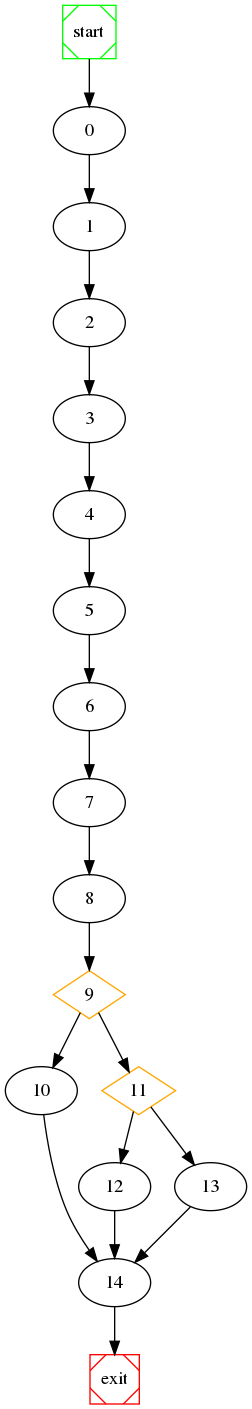
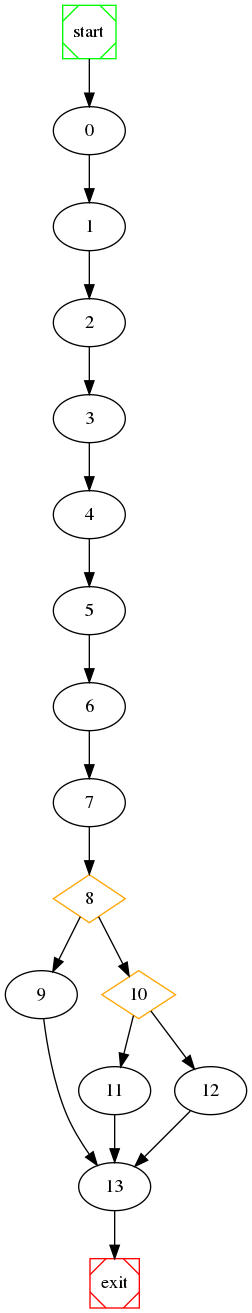
making branches even

Changed region(s): [[0.0, 0.0, 1.0, 0.9992], [0.1944, 0.1561, 0.2778, 0.1874]]

diff --git a/wpc/Z3RuntimeWpcFile.py b/wpc/Z3RuntimeWpcFile.py
@@ -1,4 +1,4 @@
-# This file was generated at runtime on 2019-03-09 19:59:27.403494
+# This file was generated at runtime on 2019-04-01 21:19:35.773198
 from z3 import *
 
 class Z3RuntimeWpcFile():
@@ -8,34 +8,16 @@ class Z3RuntimeWpcFile():
 		self.modelForViolation = ""
 
 	def execute(self):
-		LAST_NAME = Real('LAST_NAME')
-		ROOM_ID = Real('ROOM_ID')
-		BEGINNING = Real('BEGINNING')
-		DATE_OF_RESERVATION = Real('DATE_OF_RESERVATION')
-		COMPLETED = Real('COMPLETED')
-		N_O_VISITS = Real('N_O_VISITS')
-		PESEL_C = Real('PESEL_C')
-		RESERVATION_ID_R = Real('RESERVATION_ID_R')
-		SUM_PRICE_PER_DAY = Real('SUM_PRICE_PER_DAY')
-		ENDING = Real('ENDING')
-		PRICE_PER_DAY = Real('PRICE_PER_DAY')
-		CAPACITY = Real('CAPACITY')
-		FIRST_NAME = Real('FIRST_NAME')
-		TO_PAY = Real('TO_PAY')
-		TELEPHONE = Real('TELEPHONE')
-		FINAL_COST = Real('FINAL_COST')
-		P_RESERVATION_ID = Real('P_RESERVATION_ID')
-		ROOM_ID_R = Real('ROOM_ID_R')
-		DISCOUNT = Real('DISCOUNT')
-		COUNT_STAR = Real('COUNT_STAR')
-		RESERVATION_ID = Real('RESERVATION_ID')
-		DATE_OF_PURCHASE = Real('DATE_OF_PURCHASE')
-		PESEL = Real('PESEL')
-		STATUS = Real('STATUS')
+		BIG_DISCOUNT = Real('BIG_DISCOUNT')
+		LOW_DISCOUNT = Real('LOW_DISCOUNT')
+		PERCENT = Real('PERCENT')
+		PRICE = Real('PRICE')
+		WRONG_DISCOUNT = Real('WRONG_DISCOUNT')
+		SYSDATE = Real('SYSDATE')
 
 		s = Solver()
-		s.add(TO_PAY > 0)
-		s.add( Not( Implies( TO_PAY > 0, Or( And( And( And( PESEL_C == PESEL, RESERVATION_ID == RESERVATION_ID_R ), STATUS == COMPLETED ), Or( And( COUNT_STAR > 10, Or( And( And( ROOM_ID == ROOM_ID_R, RESERVATION_ID_R == P_RESERVATION_ID ), ( SUM_PRICE_PER_DAY - SUM_PRICE_PER_DAY * ( ( 10 ) / 100 ) ) > 0 ), And( Not( And( ROOM_ID == ROOM_ID_R, RESERVATION_ID_R == P_RESERVATION_ID ) ), ( FINAL_COST - FINAL_COST * ( ( 10 ) / 100 ) ) > 0 ) ) ), And( Not( COUNT_STAR > 10 ), Or( And( And( ROOM_ID == ROOM_ID_R, RESERVATION_ID_R == P_RESERVATION_ID ), ( SUM_PRICE_PER_DAY - SUM_PRICE_PER_DAY * ( ( 0 ) / 100 ) ) > 0 ), And( Not( And( ROOM_ID == ROOM_ID_R, RESERVATION_ID_R == P_RESERVATION_ID ) ), ( FINAL_COST - FINAL_COST * ( ( 0 ) / 100 ) ) > 0 ) ) ) ) ), And( Not( And( And( PESEL_C == PESEL, RESERVATION_ID == RESERVATION_ID_R ), STATUS == COMPLETED ) ), Or( And( N_O_VISITS > 10, Or( And( And( ROOM_ID == ROOM_ID_R, RESERVATION_ID_R == P_RESERVATION_ID ), ( SUM_PRICE_PER_DAY - SUM_PRICE_PER_DAY * ( ( 10 ) / 100 ) ) > 0 ), And( Not( And( ROOM_ID == ROOM_ID_R, RESERVATION_ID_R == P_RESERVATION_ID ) ), ( FINAL_COST - FINAL_COST * ( ( 10 ) / 100 ) ) > 0 ) ) ), And( Not( N_O_VISITS > 10 ), Or( And( And( ROOM_ID == ROOM_ID_R, RESERVATION_ID_R == P_RESERVATION_ID ), ( SUM_PRICE_PER_DAY - SUM_PRICE_PER_DAY * ( ( 0 ) / 100 ) ) > 0 ), And( Not( And( ROOM_ID == ROOM_ID_R, RESERVATION_ID_R == P_RESERVATION_ID ) ), ( FINAL_COST - FINAL_COST * ( ( 0 ) / 100 ) ) > 0 ) ) ) ) ) ) ) ) )
+		s.add(And( And( And( And( BIG_DISCOUNT >= 0, LOW_DISCOUNT >= 0 ), WRONG_DISCOUNT >= 0 ), PRICE > 0 ), SYSDATE > 0 ))
+		s.add( Not( Implies( And( And( And( And( BIG_DISCOUNT >= 0, LOW_DISCOUNT >= 0 ), WRONG_DISCOUNT >= 0 ), PRICE > 0 ), SYSDATE > 0 ), Or( And( Or( PERCENT < 0, PERCENT > 100 ), And( And( And( And( BIG_DISCOUNT >= 0, LOW_DISCOUNT >= 0 ), WRONG_DISCOUNT >= 0 ), PRICE > 0 ), SYSDATE > 0 ) ), And( Not( Or( PERCENT < 0, PERCENT > 100 ) ), Or( And( PERCENT > 200, And( And( And( And( BIG_DISCOUNT >= 0, LOW_DISCOUNT >= 0 ), WRONG_DISCOUNT >= 0 ), PRICE > 0 ), SYSDATE > 0 ) ), And( Not( PERCENT > 200 ), And( And( And( And( BIG_DISCOUNT >= 0, LOW_DISCOUNT >= 0 ), WRONG_DISCOUNT >= 0 ), PRICE > 0 ), SYSDATE > 0 ) ) ) ) ) ) ) )
 
 		#print("\n%%%%%%%%%% Aggregate Formula %%%%%%%%%%\n", s)
 		self.finalFormula = str(s)

diff --git a/simulator_wpc.py b/simulator_wpc.py
@@ -49,7 +49,7 @@ def executeSinglePlSqlFile(data, spec):
     v = MyVisitor(parser, cfg, utility)
     v.visit(tree)
 
-    # print(v.rawCFG, "\n")
+    print("\n\t", v.rawCFG, "\n")
 
     # for key in v.cfg.nodes:
     #     if v.cfg.nodes[key].ctx != None:
@@ -61,7 +61,7 @@ def executeSinglePlSqlFile(data, spec):
     # cfg.printPretty()
     # print("\n")
 
-    # cfg.dotToPng(cfg.dotGraph, "wpc/raw_graph")
+    cfg.dotToPng(cfg.dotGraph, "wpc/raw_graph")
     utility.generateVariableSet(cfg)
 
     # all properties of each node
@@ -79,7 +79,7 @@ def executeSinglePlSqlFile(data, spec):
     # done: replace " = " with " == " in algo.finalWpcString
     algo.finalWpcString = algo.finalWpcString.replace(" = ", " == ")
 
-    # print("\n**** Final WPC String:\n", algo.finalWpcString, "\n")
+    print("\n**** Final WPC String:\n\n", algo.finalWpcString, "\n")
 
     # print(algo.variablesForZ3)
 
@@ -91,7 +91,7 @@ def executeSinglePlSqlFile(data, spec):
     z3StringConvertor = WpcStringConverter(algo.finalWpcString)
     z3StringConvertor.execute()
     # z3StringConvertor.convertedWpc is the FINAL VC Generated...
-    # print("\n**** WPC String in Z3 Format:\n", z3StringConvertor.convertedWpc, "\n")
+    print("\n**** WPC String in Z3 Format:\n\n", z3StringConvertor.convertedWpc, "\n")
 
     z3FileString = "# This file was generated at runtime on " + str(datetime.datetime.now()) + "\n"
     z3FileString = z3FileString + "from z3 import *\n\n"
